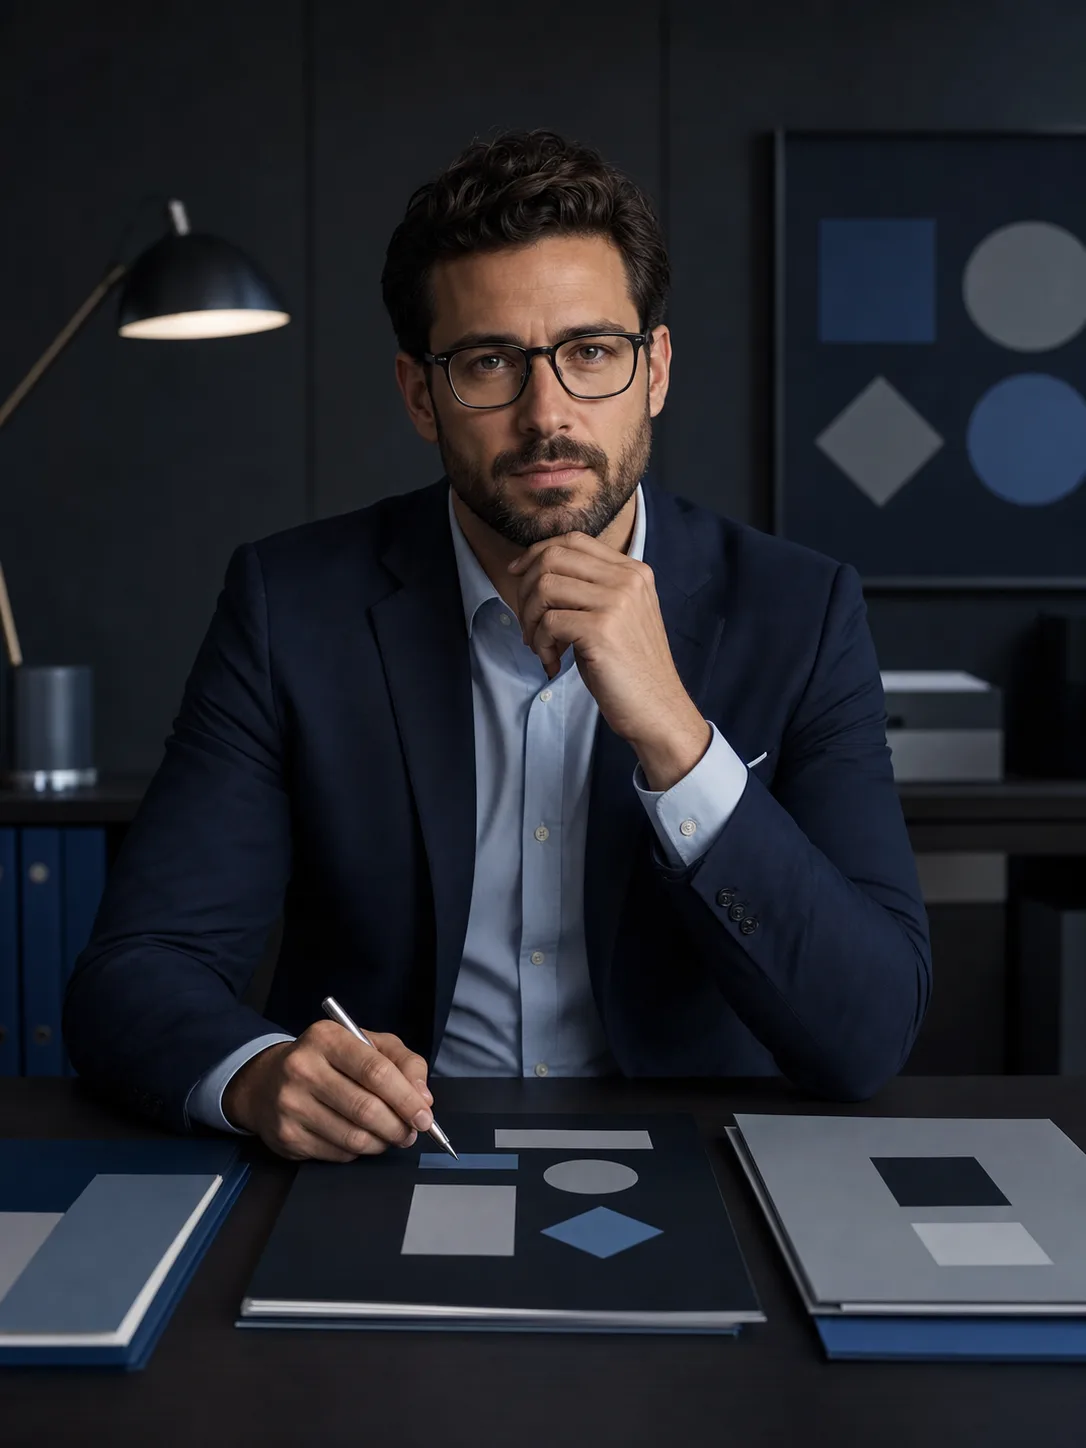
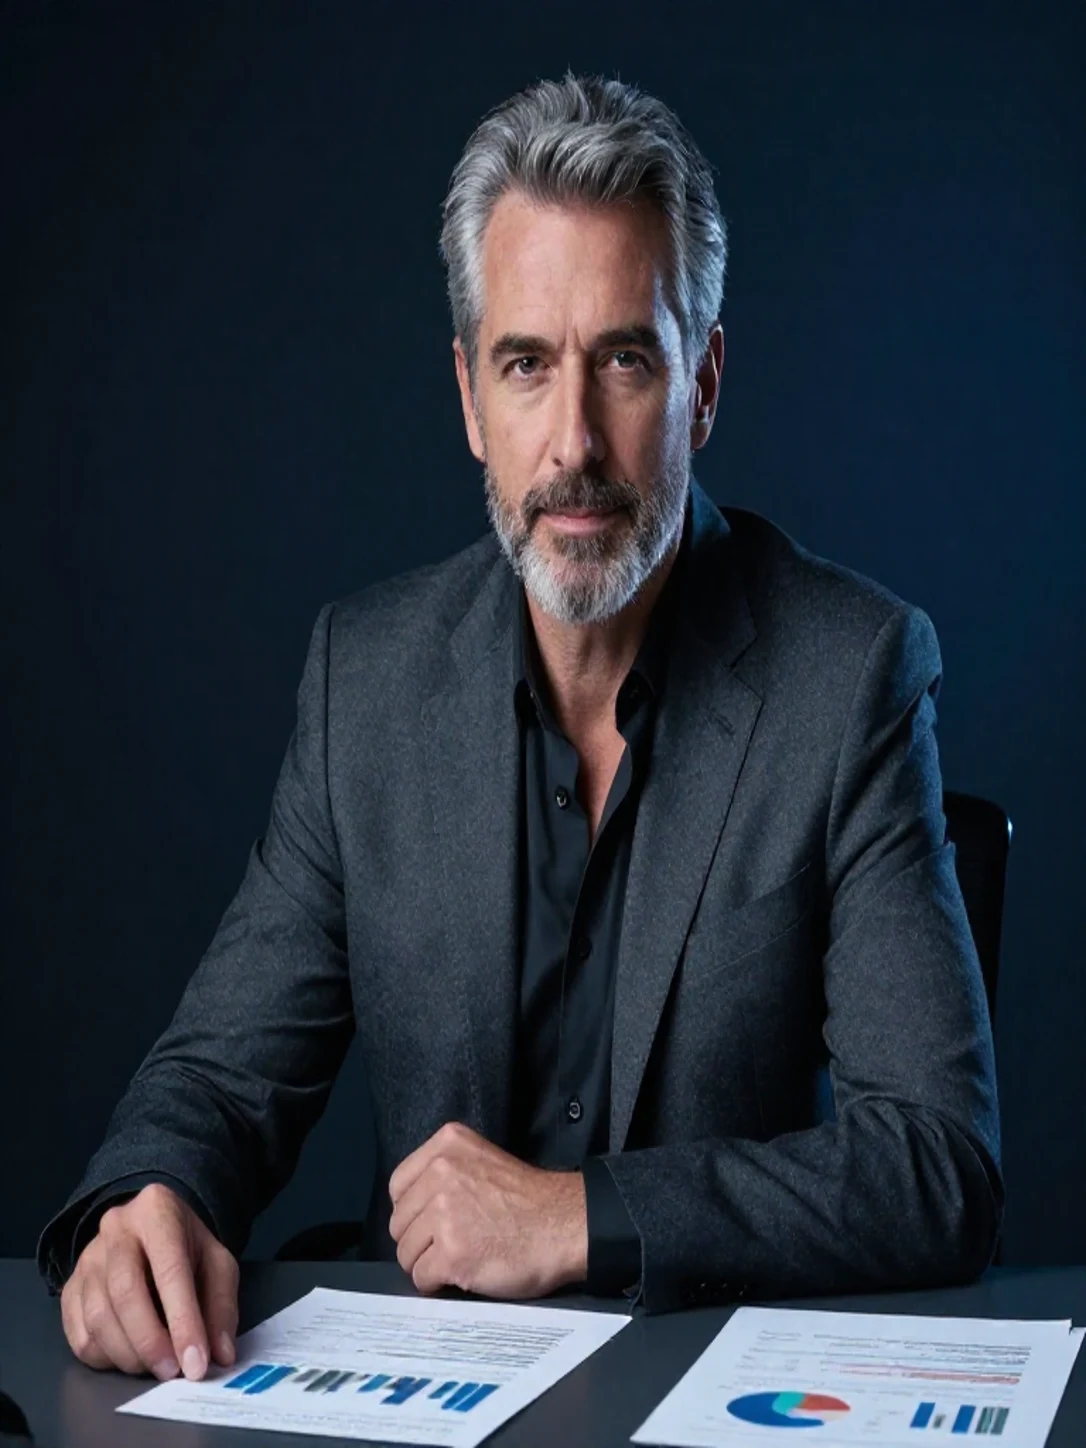
fix: index tier pricing to x1.5 + distinct Victor Lane portrait

diff --git a/index.html b/index.html
@@ -2197,8 +2197,8 @@
               <p>Monthly account tiers for Human, API-only, and Both access are live with Stripe checkout on the platform. Try it first with the $7.50/mo Pilot Test tier, then change plans whenever you need more capacity. <a href="https://app.webot.studio/login">Sign in to subscribe</a>.</p>
               <div class="tier-table" aria-label="Platform account tiers">
                 <div class="tier-row"><strong>Access</strong><span>Light</span><span>Standard</span><span>Pro</span></div>
-                <div class="tier-row"><strong>Human</strong><span>$10</span><span>$20</span><span>$30</span></div>
-                <div class="tier-row"><strong>API-only</strong><span>$7</span><span>$14</span><span>$21</span></div>
+                <div class="tier-row"><strong>Dashboard</strong><span>$15</span><span>$30</span><span>$45</span></div>
+                <div class="tier-row"><strong>API-only</strong><span>$10.50</span><span>$21</span><span>$31.50</span></div>
                 <div class="tier-row"><strong>Both</strong><span>$15</span><span>$30</span><span>$45</span></div>
               </div>
             </article>